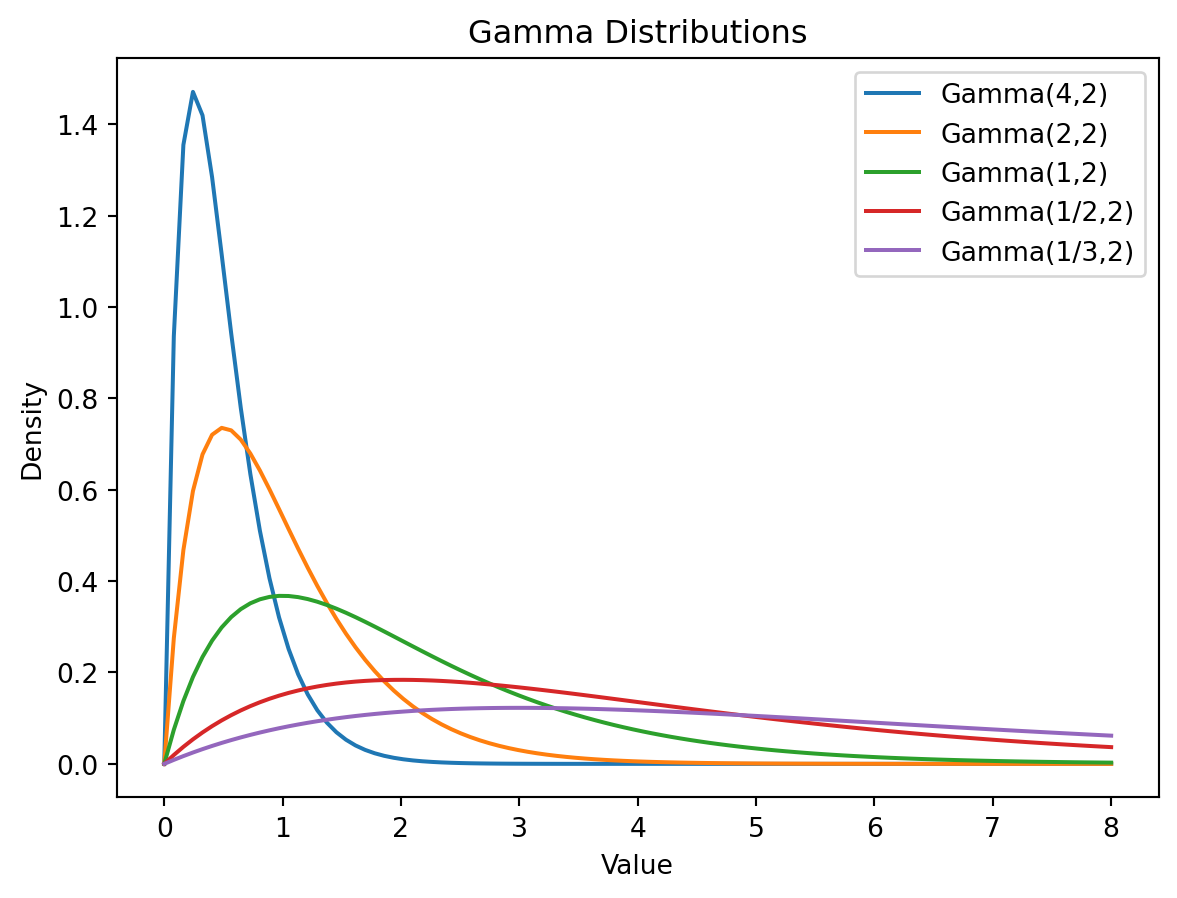
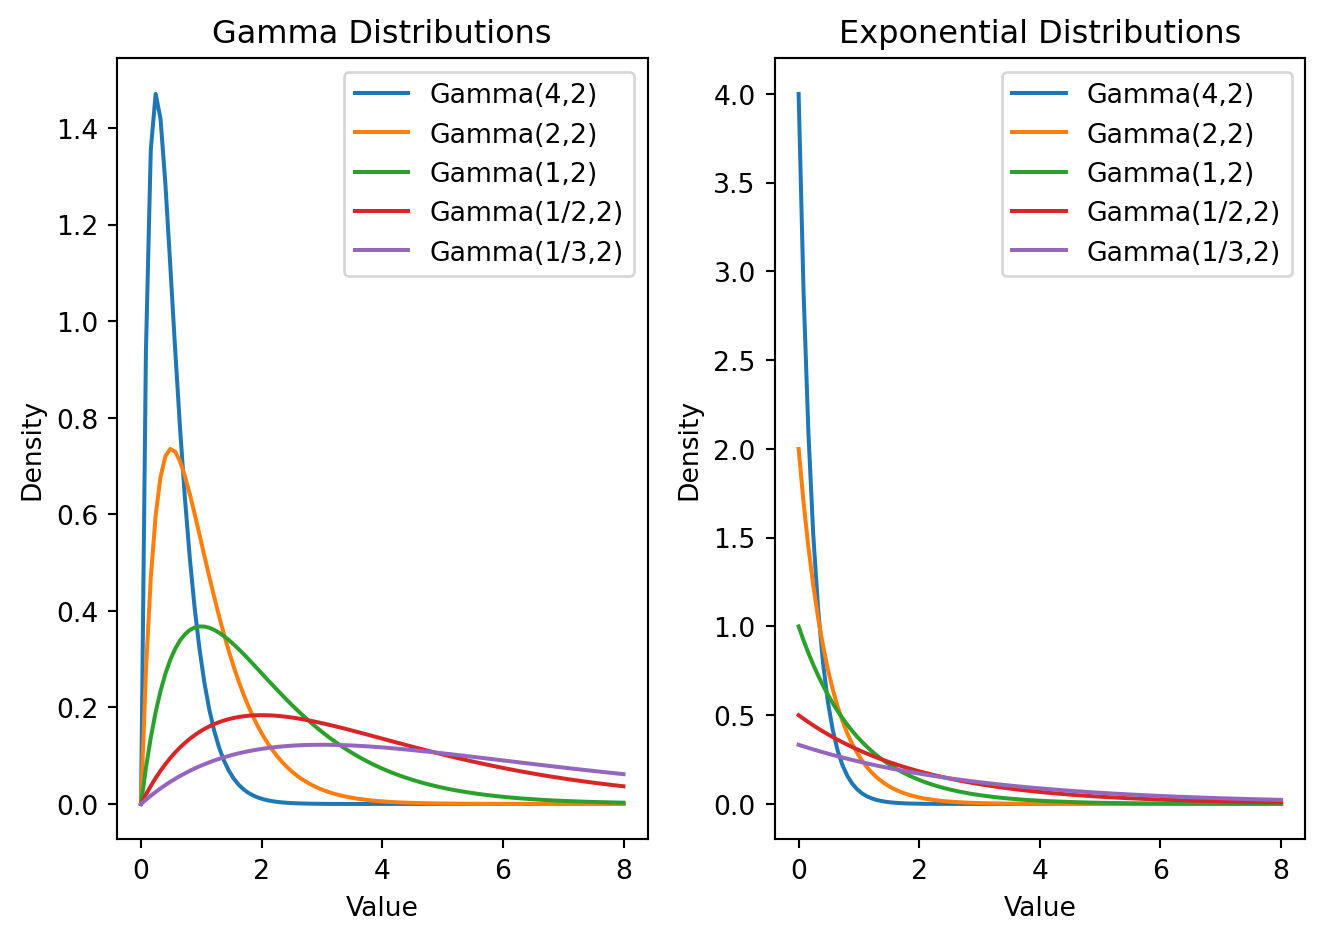
changing Beta-Gamma.qmd

Changed region(s): [[0.0, 0.0, 1.0, 0.9978], [0.52, 0.9042, 0.5811, 0.9978]]

diff --git a/docs/posts/2023-11-24/Beta-Gamma.html b/docs/posts/2023-11-24/Beta-Gamma.html
@@ -330,18 +330,21 @@ gtag('config', 'G-36GX2G6GLL', { 'anonymize_ip': true});
 <p><img src="Beta-Gamma_files/figure-html/cell-2-output-1.png" width="589" height="449"></p>
 </div>
 </div>
-<p>レートパラメータを固定し，形状パラメータを残した <span class="math inline">\(\chi^2(k):=\mathrm{Gamma}(1/2,k/2)\)</span> を自由度 <span class="math inline">\(k\)</span> のカイ自乗分布ということに注意．</p>
+<p>レートパラメータを固定し，形状パラメータを残した <span class="math display">\[\chi^2(k):=\mathrm{Gamma}(1/2,k/2)\]</span> を自由度 <span class="math inline">\(k\)</span> のカイ自乗分布ということに注意．</p>
 <div class="cell" data-execution_count="2">
 <div class="cell-output cell-output-display">
-<p><img src="Beta-Gamma_files/figure-html/cell-3-output-1.png" width="589" height="449"></p>
+<p><img src="Beta-Gamma_files/figure-html/cell-3-output-1.png" width="358" height="470"></p>
 </div>
 </div>
 <p>最後に，レートパラメータが大きいほど突起が大きくなる様子は次の通り：</p>
 <div class="cell" data-execution_count="3">
 <div class="cell-output cell-output-display">
-<p><img src="Beta-Gamma_files/figure-html/cell-4-output-1.png" width="589" height="449"></p>
+<p><img src="Beta-Gamma_files/figure-html/cell-4-output-1.png" width="662" height="470"></p>
 </div>
 </div>
+<p>なお，形状パラメータが <span class="math inline">\(\nu=1\)</span> であるGamma分布のことを<strong>指数分布</strong>という： <span class="math display">\[
+\mathrm{Exp}\;(\gamma):=\mathrm{Gamma}(\gamma,1)\;(\gamma&gt;0)
+\]</span></p>
 </section>
 </section>
 <section id="beta分布を見る" class="level2" data-number="2">
@@ -395,8 +398,7 @@ gtag('config', 'G-36GX2G6GLL', { 'anonymize_ip': true});
 \end{cases}\]</span> を逆に解くことで， <span class="math display">\[\begin{pmatrix}y_1\\y_2\end{pmatrix}=\begin{pmatrix}x_1x_2\\x_2\end{pmatrix}=:T(x_1,x_2)\]</span> を得る．<span class="math inline">\(A:=(0,1)\times(0,\infty),B:=(0,\infty)^2\)</span> と定めると，<span class="math inline">\(T:A\to B\)</span> は可微分同相で，Jacobianは <span class="math display">\[DT=\begin{pmatrix}x_2&amp;x_1\\0&amp;1\end{pmatrix},\qquad J_T=x_2,\]</span> と計算でき，<span class="math inline">\(A\)</span> 上で は消えない．</p>
 <p>よって <span class="math inline">\((X_1,X_2)\)</span> の結合分布は <span class="math display">\[
 \begin{align*}
-    &amp;p^*(x_1,x_2)dx_1dx_2\\
-    &amp;=p(T(x_1,x_2))J_T(x_1,x_2)dx_1dx_2\\
+    p(T(x_1,x_2))J_T(x_1,x_2)dx_1dx_2\\
     &amp;=\frac{\alpha^{\nu_1}}{\Gamma(\nu_1)}y_1^{\nu_1-1}e^{-\alpha y_1}\frac{\alpha^{\nu_2}}{\Gamma(\nu_2)}y_2^{\nu_2-1}e^{-\alpha y_2}\frac{x_2}{(1-x_1)^2}\,dx_1dx_2\\
     &amp;=\frac{\alpha^{\nu_1}}{\Gamma(\nu_1)}x_1^{\nu_1-1}x_2^{\nu_1-1}e^{-\alpha x_1x_2}\frac{\alpha^{\nu_2}}{\Gamma(\nu_2)}x_2^{\nu_2-1}(1-x_1)^{\nu_2-1}e^{-\alpha x_2(1-x_1)}\\
     &amp;\hspace{10cm}\times x_2\,dx_1dx_2\\

diff --git a/docs/index.html b/docs/index.html
@@ -213,7 +213,7 @@ Hirofumi Shiba
 </a>
 </div>
 </div>
-<div class="quarto-post image-right" data-index="1" data-categories="Probability,Math Notes" data-listing-date-sort="1700751600000" data-listing-file-modified-sort="1700996464141" data-listing-date-modified-sort="NaN" data-listing-reading-time-sort="2">
+<div class="quarto-post image-right" data-index="1" data-categories="Probability,Math Notes" data-listing-date-sort="1700751600000" data-listing-file-modified-sort="1701008919381" data-listing-date-modified-sort="NaN" data-listing-reading-time-sort="2">
 <div class="thumbnail">
 <p><a href="./posts/2023-11-24/Beta-Gamma.html"> <p class="card-img-top"><img src="posts/2023-11-24/formula.png"  class="thumbnail-image card-img"/></p> </a></p>
 </div>
@@ -324,7 +324,7 @@ Hirofumi Shiba
 </a>
 </div>
 </div>
-<div class="quarto-post image-right" data-index="4" data-categories="Math Notes" data-listing-date-sort="1700578800000" data-listing-file-modified-sort="1700893541683" data-listing-date-modified-sort="NaN" data-listing-reading-time-sort="2">
+<div class="quarto-post image-right" data-index="4" data-categories="Math Notes" data-listing-date-sort="1700578800000" data-listing-file-modified-sort="1701007271000" data-listing-date-modified-sort="NaN" data-listing-reading-time-sort="2">
 <div class="thumbnail">
 <p><a href="./posts/2023-11-22/独立性.html"> <p class="card-img-top"><img src="posts/2023-11-22/formula.png"  class="thumbnail-image card-img"/></p> </a></p>
 </div>
